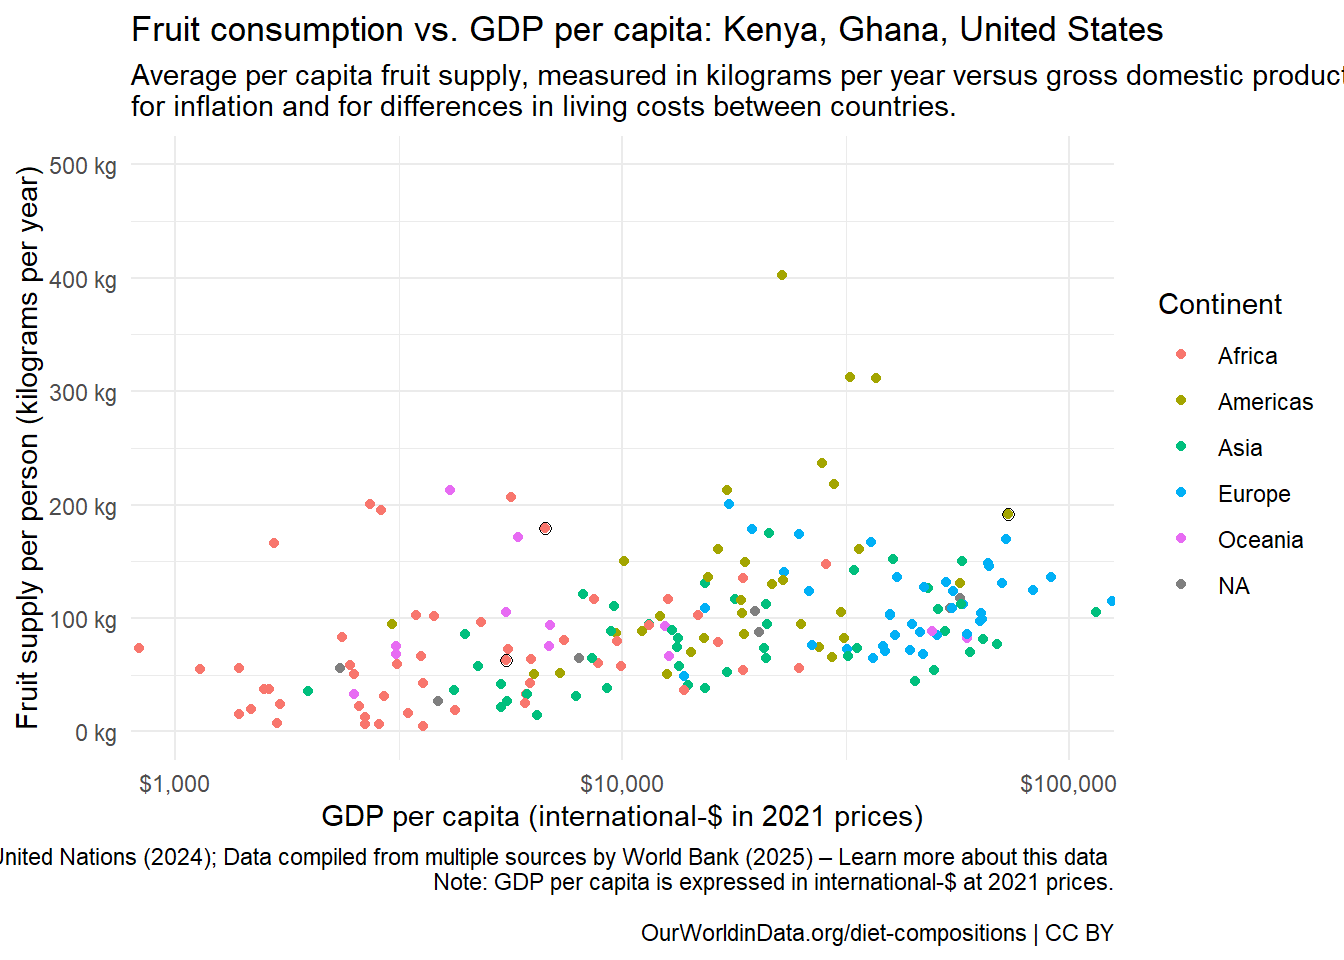
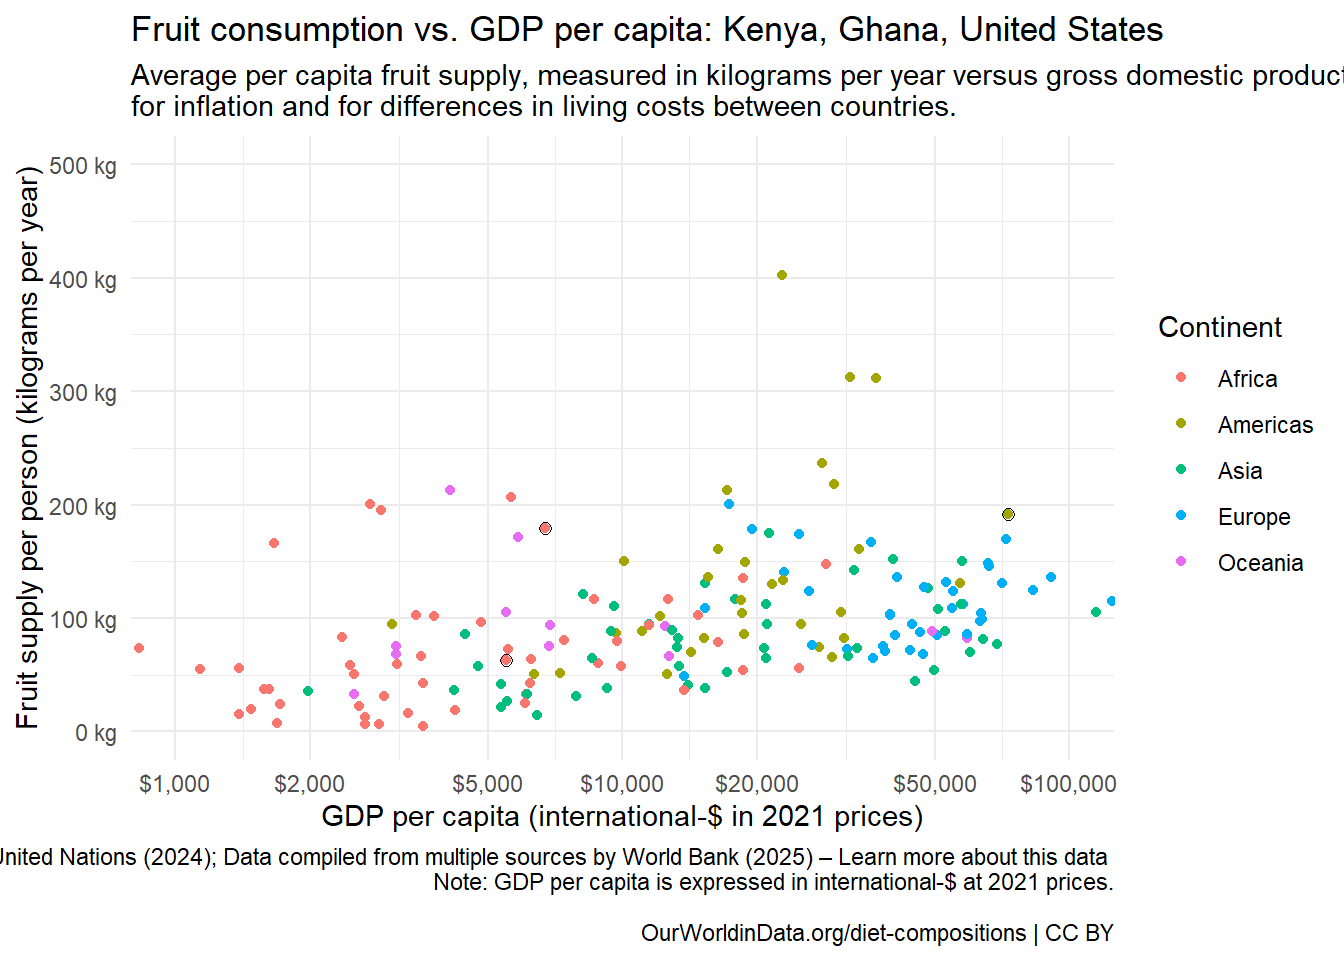
Changed x-axis values and labels

diff --git a/week_05/Recreate Fruit Visualization.html b/week_05/Recreate Fruit Visualization.html
@@ -174,9 +174,10 @@ dbl (3): Year, fruit__00002919__food_available_for_consumption__0645pc__kilo...
 <div class="sourceCode cell-code" id="cb13"><pre class="sourceCode numberSource r number-lines code-with-copy"><code class="sourceCode r"><span id="cb13-1"><a href="#cb13-1"></a>fruit <span class="ot">&lt;-</span> df_fruit <span class="sc">%&gt;%</span></span>
 <span id="cb13-2"><a href="#cb13-2"></a>  <span class="fu">mutate</span>(<span class="at">Continent =</span> <span class="fu">countrycode</span>(Entity, <span class="at">origin =</span> <span class="st">"country.name"</span>, <span class="at">destination =</span> <span class="st">"continent"</span>)) <span class="sc">%&gt;%</span> </span>
 <span id="cb13-3"><a href="#cb13-3"></a>  <span class="fu">filter</span>(<span class="sc">!</span><span class="fu">is.na</span>(ny_gdp_pcap_pp_kd)) <span class="sc">%&gt;%</span></span>
-<span id="cb13-4"><a href="#cb13-4"></a>  <span class="fu">rename</span>(<span class="at">fruit_supply =</span> <span class="st">`</span><span class="at">fruit__00002919__food_available_for_consumption__0645pc__kilograms_per_year_per_capita</span><span class="st">`</span>) <span class="sc">%&gt;%</span></span>
-<span id="cb13-5"><a href="#cb13-5"></a>  <span class="fu">filter</span>(<span class="sc">!</span><span class="fu">is.na</span>(fruit_supply)) <span class="sc">%&gt;%</span> </span>
-<span id="cb13-6"><a href="#cb13-6"></a>  <span class="fu">filter</span>(Year <span class="sc">==</span> <span class="dv">2022</span>)</span></code><button title="Copy to Clipboard" class="code-copy-button"><i class="bi"></i></button></pre></div>
+<span id="cb13-4"><a href="#cb13-4"></a>  <span class="fu">filter</span>(<span class="sc">!</span><span class="fu">is.na</span>(Continent)) <span class="sc">%&gt;%</span> </span>
+<span id="cb13-5"><a href="#cb13-5"></a>  <span class="fu">rename</span>(<span class="at">fruit_supply =</span> <span class="st">`</span><span class="at">fruit__00002919__food_available_for_consumption__0645pc__kilograms_per_year_per_capita</span><span class="st">`</span>) <span class="sc">%&gt;%</span></span>
+<span id="cb13-6"><a href="#cb13-6"></a>  <span class="fu">filter</span>(<span class="sc">!</span><span class="fu">is.na</span>(fruit_supply)) <span class="sc">%&gt;%</span> </span>
+<span id="cb13-7"><a href="#cb13-7"></a>  <span class="fu">filter</span>(Year <span class="sc">==</span> <span class="dv">2022</span>)</span></code><button title="Copy to Clipboard" class="code-copy-button"><i class="bi"></i></button></pre></div>
 </details>
 <div class="cell-output cell-output-stderr">
 <pre><code>Warning: There was 1 warning in `mutate()`.
@@ -192,20 +193,21 @@ Caused by warning:
 <details class="code-fold">
 <summary>Code</summary>
 <div class="sourceCode cell-code" id="cb15"><pre class="sourceCode numberSource r number-lines code-with-copy"><code class="sourceCode r"><span id="cb15-1"><a href="#cb15-1"></a><span class="fu">ggplot</span>(fruit, <span class="fu">aes</span>(<span class="at">x =</span> ny_gdp_pcap_pp_kd, <span class="at">y =</span> fruit_supply, <span class="at">color =</span> Continent)) <span class="sc">+</span></span>
-<span id="cb15-2"><a href="#cb15-2"></a>  <span class="fu">geom_point</span>(<span class="at">pch =</span> <span class="dv">20</span>) <span class="sc">+</span></span>
+<span id="cb15-2"><a href="#cb15-2"></a>  <span class="fu">geom_point</span>() <span class="sc">+</span></span>
 <span id="cb15-3"><a href="#cb15-3"></a>  <span class="fu">scale_y_continuous</span>(<span class="at">breaks =</span> <span class="fu">seq</span>(<span class="dv">0</span>, <span class="dv">500</span>, <span class="dv">100</span>),</span>
 <span id="cb15-4"><a href="#cb15-4"></a>                     <span class="at">limits =</span> <span class="fu">c</span>(<span class="dv">0</span>, <span class="dv">500</span>),</span>
 <span id="cb15-5"><a href="#cb15-5"></a>                     <span class="at">labels =</span> <span class="fu">label_number</span>(<span class="at">suffix =</span> <span class="st">" kg"</span>)) <span class="sc">+</span></span>
-<span id="cb15-6"><a href="#cb15-6"></a>  <span class="fu">scale_x_continuous</span>(<span class="at">labels =</span> <span class="fu">dollar_format</span>(<span class="at">prefix =</span> <span class="st">"$"</span>, <span class="at">big.mark =</span> <span class="st">","</span>),</span>
-<span id="cb15-7"><a href="#cb15-7"></a>                     <span class="at">trans =</span> <span class="st">"log10"</span>) <span class="sc">+</span></span>
-<span id="cb15-8"><a href="#cb15-8"></a>  <span class="fu">labs</span>(<span class="at">title =</span> <span class="st">"Fruit consumption vs. GDP per capita"</span>,</span>
-<span id="cb15-9"><a href="#cb15-9"></a>       <span class="at">subtitle =</span> <span class="st">"Average per capita fruit supply, measured in kilograms per year versus gross domestic product (GDP) per capita, adjusted </span><span class="sc">\n</span><span class="st">for inflation and for differences in living costs between countries."</span>,</span>
-<span id="cb15-10"><a href="#cb15-10"></a>       <span class="at">x =</span> <span class="st">"GDP per capita (international-$ in 2021 prices)"</span>, </span>
-<span id="cb15-11"><a href="#cb15-11"></a>       <span class="at">y =</span> <span class="st">"Fruit supply per person (kilograms per year)"</span>,</span>
-<span id="cb15-12"><a href="#cb15-12"></a>       <span class="at">caption =</span> <span class="st">"Data source: Food and Agriculture Organization of the United Nations (2024); Data compiled from multiple sources by World Bank (2025) – Learn more about this data </span><span class="sc">\n</span><span class="st">Note: GDP per capita is expressed in international-$ at 2021 prices.</span></span>
-<span id="cb15-13"><a href="#cb15-13"></a><span class="sc">\n</span><span class="st">OurWorldinData.org/diet-compositions | CC BY"</span>) <span class="sc">+</span></span>
-<span id="cb15-14"><a href="#cb15-14"></a>  <span class="fu">coord_cartesian</span>(<span class="at">xlim =</span> <span class="fu">c</span>(<span class="dv">1000</span>, <span class="dv">100000</span>)) <span class="sc">+</span></span>
-<span id="cb15-15"><a href="#cb15-15"></a>  <span class="fu">theme_minimal</span>()</span></code><button title="Copy to Clipboard" class="code-copy-button"><i class="bi"></i></button></pre></div>
+<span id="cb15-6"><a href="#cb15-6"></a>  <span class="fu">scale_x_continuous</span>(<span class="at">breaks =</span> <span class="fu">c</span>(<span class="dv">1000</span>, <span class="dv">2000</span>, <span class="dv">5000</span>, <span class="dv">10000</span>, <span class="dv">20000</span>, <span class="dv">50000</span>, <span class="dv">100000</span>),</span>
+<span id="cb15-7"><a href="#cb15-7"></a>                     <span class="at">labels =</span> <span class="fu">dollar_format</span>(<span class="at">prefix =</span> <span class="st">"$"</span>, <span class="at">big.mark =</span> <span class="st">","</span>, <span class="at">accuracy =</span> <span class="dv">1</span>),</span>
+<span id="cb15-8"><a href="#cb15-8"></a>                     <span class="at">trans =</span> <span class="st">"log10"</span>) <span class="sc">+</span></span>
+<span id="cb15-9"><a href="#cb15-9"></a>  <span class="fu">labs</span>(<span class="at">title =</span> <span class="st">"Fruit consumption vs. GDP per capita"</span>,</span>
+<span id="cb15-10"><a href="#cb15-10"></a>       <span class="at">subtitle =</span> <span class="st">"Average per capita fruit supply, measured in kilograms per year versus gross domestic product (GDP) per capita, adjusted </span><span class="sc">\n</span><span class="st">for inflation and for differences in living costs between countries."</span>,</span>
+<span id="cb15-11"><a href="#cb15-11"></a>       <span class="at">x =</span> <span class="st">"GDP per capita (international-$ in 2021 prices)"</span>, </span>
+<span id="cb15-12"><a href="#cb15-12"></a>       <span class="at">y =</span> <span class="st">"Fruit supply per person (kilograms per year)"</span>,</span>
+<span id="cb15-13"><a href="#cb15-13"></a>       <span class="at">caption =</span> <span class="st">"Data source: Food and Agriculture Organization of the United Nations (2024); Data compiled from multiple sources by World Bank (2025) – Learn more about this data </span><span class="sc">\n</span><span class="st">Note: GDP per capita is expressed in international-$ at 2021 prices.</span></span>
+<span id="cb15-14"><a href="#cb15-14"></a><span class="sc">\n</span><span class="st">OurWorldinData.org/diet-compositions | CC BY"</span>) <span class="sc">+</span></span>
+<span id="cb15-15"><a href="#cb15-15"></a>  <span class="fu">coord_cartesian</span>(<span class="at">xlim =</span> <span class="fu">c</span>(<span class="dv">1000</span>, <span class="dv">100000</span>)) <span class="sc">+</span></span>
+<span id="cb15-16"><a href="#cb15-16"></a>  <span class="fu">theme_minimal</span>()</span></code><button title="Copy to Clipboard" class="code-copy-button"><i class="bi"></i></button></pre></div>
 </details>
 <div class="cell-output cell-output-stderr">
 <pre><code>Warning: Removed 1 row containing missing values or values outside the scale range
@@ -231,16 +233,17 @@ Caused by warning:
 <span id="cb17-7"><a href="#cb17-7"></a>  <span class="fu">scale_y_continuous</span>(<span class="at">breaks =</span> <span class="fu">seq</span>(<span class="dv">0</span>, <span class="dv">500</span>, <span class="dv">100</span>),</span>
 <span id="cb17-8"><a href="#cb17-8"></a>                     <span class="at">limits =</span> <span class="fu">c</span>(<span class="dv">0</span>, <span class="dv">500</span>),</span>
 <span id="cb17-9"><a href="#cb17-9"></a>                     <span class="at">labels =</span> <span class="fu">label_number</span>(<span class="at">suffix =</span> <span class="st">" kg"</span>)) <span class="sc">+</span></span>
-<span id="cb17-10"><a href="#cb17-10"></a>  <span class="fu">scale_x_continuous</span>(<span class="at">labels =</span> <span class="fu">dollar_format</span>(<span class="at">prefix =</span> <span class="st">"$"</span>, <span class="at">big.mark =</span> <span class="st">","</span>),</span>
-<span id="cb17-11"><a href="#cb17-11"></a>                     <span class="at">trans =</span> <span class="st">"log10"</span>) <span class="sc">+</span></span>
-<span id="cb17-12"><a href="#cb17-12"></a>  <span class="fu">labs</span>(<span class="at">title =</span> <span class="st">"Fruit consumption vs. GDP per capita: Kenya, Ghana, United States"</span>,</span>
-<span id="cb17-13"><a href="#cb17-13"></a>       <span class="at">subtitle =</span> <span class="st">"Average per capita fruit supply, measured in kilograms per year versus gross domestic product (GDP) per capita, adjusted </span><span class="sc">\n</span><span class="st">for inflation and for differences in living costs between countries."</span>,</span>
-<span id="cb17-14"><a href="#cb17-14"></a>       <span class="at">x =</span> <span class="st">"GDP per capita (international-$ in 2021 prices)"</span>, </span>
-<span id="cb17-15"><a href="#cb17-15"></a>       <span class="at">y =</span> <span class="st">"Fruit supply per person (kilograms per year)"</span>,</span>
-<span id="cb17-16"><a href="#cb17-16"></a>       <span class="at">caption =</span> <span class="st">"Data source: Food and Agriculture Organization of the United Nations (2024); Data compiled from multiple sources by World Bank (2025) – Learn more about this data </span><span class="sc">\n</span><span class="st">Note: GDP per capita is expressed in international-$ at 2021 prices.</span></span>
-<span id="cb17-17"><a href="#cb17-17"></a><span class="sc">\n</span><span class="st">OurWorldinData.org/diet-compositions | CC BY"</span>) <span class="sc">+</span></span>
-<span id="cb17-18"><a href="#cb17-18"></a>  <span class="fu">coord_cartesian</span>(<span class="at">xlim =</span> <span class="fu">c</span>(<span class="dv">1000</span>, <span class="dv">100000</span>)) <span class="sc">+</span></span>
-<span id="cb17-19"><a href="#cb17-19"></a>  <span class="fu">theme_minimal</span>()</span></code><button title="Copy to Clipboard" class="code-copy-button"><i class="bi"></i></button></pre></div>
+<span id="cb17-10"><a href="#cb17-10"></a>  <span class="fu">scale_x_continuous</span>(<span class="at">breaks =</span> <span class="fu">c</span>(<span class="dv">1000</span>, <span class="dv">2000</span>, <span class="dv">5000</span>, <span class="dv">10000</span>, <span class="dv">20000</span>, <span class="dv">50000</span>, <span class="dv">100000</span>),</span>
+<span id="cb17-11"><a href="#cb17-11"></a>                     <span class="at">labels =</span> <span class="fu">dollar_format</span>(<span class="at">prefix =</span> <span class="st">"$"</span>, <span class="at">big.mark =</span> <span class="st">","</span>, <span class="at">accuracy =</span> <span class="dv">1</span>),</span>
+<span id="cb17-12"><a href="#cb17-12"></a>                     <span class="at">trans =</span> <span class="st">"log10"</span>) <span class="sc">+</span></span>
+<span id="cb17-13"><a href="#cb17-13"></a>  <span class="fu">labs</span>(<span class="at">title =</span> <span class="st">"Fruit consumption vs. GDP per capita: Kenya, Ghana, United States"</span>,</span>
+<span id="cb17-14"><a href="#cb17-14"></a>       <span class="at">subtitle =</span> <span class="st">"Average per capita fruit supply, measured in kilograms per year versus gross domestic product (GDP) per capita, adjusted </span><span class="sc">\n</span><span class="st">for inflation and for differences in living costs between countries."</span>,</span>
+<span id="cb17-15"><a href="#cb17-15"></a>       <span class="at">x =</span> <span class="st">"GDP per capita (international-$ in 2021 prices)"</span>, </span>
+<span id="cb17-16"><a href="#cb17-16"></a>       <span class="at">y =</span> <span class="st">"Fruit supply per person (kilograms per year)"</span>,</span>
+<span id="cb17-17"><a href="#cb17-17"></a>       <span class="at">caption =</span> <span class="st">"Data source: Food and Agriculture Organization of the United Nations (2024); Data compiled from multiple sources by World Bank (2025) – Learn more about this data </span><span class="sc">\n</span><span class="st">Note: GDP per capita is expressed in international-$ at 2021 prices.</span></span>
+<span id="cb17-18"><a href="#cb17-18"></a><span class="sc">\n</span><span class="st">OurWorldinData.org/diet-compositions | CC BY"</span>) <span class="sc">+</span></span>
+<span id="cb17-19"><a href="#cb17-19"></a>  <span class="fu">coord_cartesian</span>(<span class="at">xlim =</span> <span class="fu">c</span>(<span class="dv">1000</span>, <span class="dv">100000</span>)) <span class="sc">+</span></span>
+<span id="cb17-20"><a href="#cb17-20"></a>  <span class="fu">theme_minimal</span>()</span></code><button title="Copy to Clipboard" class="code-copy-button"><i class="bi"></i></button></pre></div>
 </details>
 <div class="cell-output cell-output-stderr">
 <pre><code>Warning: Removed 1 row containing missing values or values outside the scale range
@@ -269,16 +272,17 @@ Caused by warning:
 <span id="cb19-7"><a href="#cb19-7"></a>  <span class="fu">scale_y_continuous</span>(<span class="at">breaks =</span> <span class="fu">seq</span>(<span class="dv">0</span>, <span class="dv">500</span>, <span class="dv">100</span>),</span>
 <span id="cb19-8"><a href="#cb19-8"></a>                     <span class="at">limits =</span> <span class="fu">c</span>(<span class="dv">0</span>, <span class="dv">500</span>),</span>
 <span id="cb19-9"><a href="#cb19-9"></a>                     <span class="at">labels =</span> <span class="fu">label_number</span>(<span class="at">suffix =</span> <span class="st">" kg"</span>)) <span class="sc">+</span></span>
-<span id="cb19-10"><a href="#cb19-10"></a>  <span class="fu">scale_x_continuous</span>(<span class="at">labels =</span> <span class="fu">dollar_format</span>(<span class="at">prefix =</span> <span class="st">"$"</span>, <span class="at">big.mark =</span> <span class="st">","</span>),</span>
-<span id="cb19-11"><a href="#cb19-11"></a>                     <span class="at">trans =</span> <span class="st">"log10"</span>) <span class="sc">+</span></span>
-<span id="cb19-12"><a href="#cb19-12"></a>  <span class="fu">labs</span>(<span class="at">title =</span> <span class="st">"Fruit consumption vs. GDP per capita: Oceania"</span>,</span>
-<span id="cb19-13"><a href="#cb19-13"></a>       <span class="at">subtitle =</span> <span class="st">"Average per capita fruit supply, measured in kilograms per year versus gross domestic product (GDP) per capita, adjusted </span><span class="sc">\n</span><span class="st">for inflation and for differences in living costs between countries."</span>,</span>
-<span id="cb19-14"><a href="#cb19-14"></a>       <span class="at">x =</span> <span class="st">"GDP per capita (international-$ in 2021 prices)"</span>, </span>
-<span id="cb19-15"><a href="#cb19-15"></a>       <span class="at">y =</span> <span class="st">"Fruit supply per person (kilograms per year)"</span>,</span>
-<span id="cb19-16"><a href="#cb19-16"></a>       <span class="at">caption =</span> <span class="st">"Data source: Food and Agriculture Organization of the United Nations (2024); Data compiled from multiple sources by World Bank (2025) – Learn more about this data </span><span class="sc">\n</span><span class="st">Note: GDP per capita is expressed in international-$ at 2021 prices.</span></span>
-<span id="cb19-17"><a href="#cb19-17"></a><span class="sc">\n</span><span class="st">OurWorldinData.org/diet-compositions | CC BY"</span>) <span class="sc">+</span></span>
-<span id="cb19-18"><a href="#cb19-18"></a>  <span class="fu">coord_cartesian</span>(<span class="at">xlim =</span> <span class="fu">c</span>(<span class="dv">1000</span>, <span class="dv">100000</span>)) <span class="sc">+</span></span>
-<span id="cb19-19"><a href="#cb19-19"></a>  <span class="fu">theme_minimal</span>()</span></code><button title="Copy to Clipboard" class="code-copy-button"><i class="bi"></i></button></pre></div>
+<span id="cb19-10"><a href="#cb19-10"></a>  <span class="fu">scale_x_continuous</span>(<span class="at">breaks =</span> <span class="fu">c</span>(<span class="dv">1000</span>, <span class="dv">2000</span>, <span class="dv">5000</span>, <span class="dv">10000</span>, <span class="dv">20000</span>, <span class="dv">50000</span>, <span class="dv">100000</span>),</span>
+<span id="cb19-11"><a href="#cb19-11"></a>                     <span class="at">labels =</span> <span class="fu">dollar_format</span>(<span class="at">prefix =</span> <span class="st">"$"</span>, <span class="at">big.mark =</span> <span class="st">","</span>, <span class="at">accuracy =</span> <span class="dv">1</span>),</span>
+<span id="cb19-12"><a href="#cb19-12"></a>                     <span class="at">trans =</span> <span class="st">"log10"</span>) <span class="sc">+</span></span>
+<span id="cb19-13"><a href="#cb19-13"></a>  <span class="fu">labs</span>(<span class="at">title =</span> <span class="st">"Fruit consumption vs. GDP per capita: Oceania"</span>,</span>
+<span id="cb19-14"><a href="#cb19-14"></a>       <span class="at">subtitle =</span> <span class="st">"Average per capita fruit supply, measured in kilograms per year versus gross domestic product (GDP) per capita, adjusted </span><span class="sc">\n</span><span class="st">for inflation and for differences in living costs between countries."</span>,</span>
+<span id="cb19-15"><a href="#cb19-15"></a>       <span class="at">x =</span> <span class="st">"GDP per capita (international-$ in 2021 prices)"</span>, </span>
+<span id="cb19-16"><a href="#cb19-16"></a>       <span class="at">y =</span> <span class="st">"Fruit supply per person (kilograms per year)"</span>,</span>
+<span id="cb19-17"><a href="#cb19-17"></a>       <span class="at">caption =</span> <span class="st">"Data source: Food and Agriculture Organization of the United Nations (2024); Data compiled from multiple sources by World Bank (2025) – Learn more about this data </span><span class="sc">\n</span><span class="st">Note: GDP per capita is expressed in international-$ at 2021 prices.</span></span>
+<span id="cb19-18"><a href="#cb19-18"></a><span class="sc">\n</span><span class="st">OurWorldinData.org/diet-compositions | CC BY"</span>) <span class="sc">+</span></span>
+<span id="cb19-19"><a href="#cb19-19"></a>  <span class="fu">coord_cartesian</span>(<span class="at">xlim =</span> <span class="fu">c</span>(<span class="dv">1000</span>, <span class="dv">100000</span>)) <span class="sc">+</span></span>
+<span id="cb19-20"><a href="#cb19-20"></a>  <span class="fu">theme_minimal</span>()</span></code><button title="Copy to Clipboard" class="code-copy-button"><i class="bi"></i></button></pre></div>
 </details>
 <div class="cell-output cell-output-stderr">
 <pre><code>Warning: Removed 1 row containing missing values or values outside the scale range

diff --git a/week_05/Recreate Fruit Visualization.html.md b/week_05/Recreate Fruit Visualization.html.md
@@ -127,6 +127,7 @@ dbl (3): Year, fruit__00002919__food_available_for_consumption__0645pc__kilo...
 fruit <- df_fruit %>%
   mutate(Continent = countrycode(Entity, origin = "country.name", destination = "continent")) %>% 
   filter(!is.na(ny_gdp_pcap_pp_kd)) %>%
+  filter(!is.na(Continent)) %>% 
   rename(fruit_supply = `fruit__00002919__food_available_for_consumption__0645pc__kilograms_per_year_per_capita`) %>%
   filter(!is.na(fruit_supply)) %>% 
   filter(Year == 2022)
@@ -154,11 +155,12 @@ Caused by warning:
 
 ```{.r .cell-code}
 ggplot(fruit, aes(x = ny_gdp_pcap_pp_kd, y = fruit_supply, color = Continent)) +
-  geom_point(pch = 20) +
+  geom_point() +
   scale_y_continuous(breaks = seq(0, 500, 100),
                      limits = c(0, 500),
                      labels = label_number(suffix = " kg")) +
-  scale_x_continuous(labels = dollar_format(prefix = "$", big.mark = ","),
+  scale_x_continuous(breaks = c(1000, 2000, 5000, 10000, 20000, 50000, 100000),
+                     labels = dollar_format(prefix = "$", big.mark = ",", accuracy = 1),
                      trans = "log10") +
   labs(title = "Fruit consumption vs. GDP per capita",
        subtitle = "Average per capita fruit supply, measured in kilograms per year versus gross domestic product (GDP) per capita, adjusted \nfor inflation and for differences in living costs between countries.",
@@ -197,7 +199,8 @@ ggplot(fruit, aes(x = ny_gdp_pcap_pp_kd, y = fruit_supply, color = Continent)) +
   scale_y_continuous(breaks = seq(0, 500, 100),
                      limits = c(0, 500),
                      labels = label_number(suffix = " kg")) +
-  scale_x_continuous(labels = dollar_format(prefix = "$", big.mark = ","),
+  scale_x_continuous(breaks = c(1000, 2000, 5000, 10000, 20000, 50000, 100000),
+                     labels = dollar_format(prefix = "$", big.mark = ",", accuracy = 1),
                      trans = "log10") +
   labs(title = "Fruit consumption vs. GDP per capita: Kenya, Ghana, United States",
        subtitle = "Average per capita fruit supply, measured in kilograms per year versus gross domestic product (GDP) per capita, adjusted \nfor inflation and for differences in living costs between countries.",
@@ -240,7 +243,8 @@ ggplot(fruit, aes(x = ny_gdp_pcap_pp_kd, y = fruit_supply, color = Continent)) +
   scale_y_continuous(breaks = seq(0, 500, 100),
                      limits = c(0, 500),
                      labels = label_number(suffix = " kg")) +
-  scale_x_continuous(labels = dollar_format(prefix = "$", big.mark = ","),
+  scale_x_continuous(breaks = c(1000, 2000, 5000, 10000, 20000, 50000, 100000),
+                     labels = dollar_format(prefix = "$", big.mark = ",", accuracy = 1),
                      trans = "log10") +
   labs(title = "Fruit consumption vs. GDP per capita: Oceania",
        subtitle = "Average per capita fruit supply, measured in kilograms per year versus gross domestic product (GDP) per capita, adjusted \nfor inflation and for differences in living costs between countries.",
